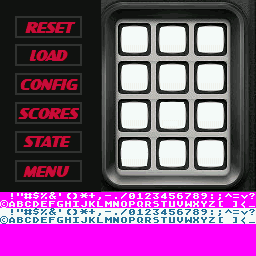
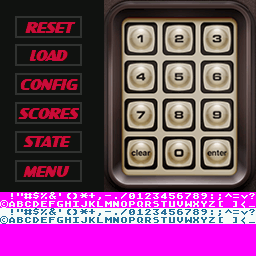
New clean empty overlay sample added. Removed built-in overlays.

diff --git a/arm9/source/config.cpp b/arm9/source/config.cpp
@@ -391,73 +391,57 @@ struct options_t
     UINT8 option_max;
 };
 
+#define KEY_MAP_OPTIONS "KEY-1", "KEY-2", "KEY-3", "KEY-4", "KEY-5", "KEY-6", "KEY-7", "KEY-8", "KEY-9", "KEY-CLR", "KEY-0", "KEY-ENT", "FIRE", "L-ACT", "R-ACT", "RESET", "LOAD", "CONFIG", "SCORES", "QUIT", "STATE", "MENU", "SWITCH", "MANUAL", "DISC UP", "DISC DOWN"
+
 const struct options_t Option_Table[3][20] =
 {
     // Page 1 options
     {
-        {"OVERLAY",     {"GENERIC", "ECS", "MINOTAUR", "ADVENTURE", "ASTROSMASH", "SPACE SPARTANS", "B-17 BOMBER", "ATLANTIS", "BOMB SQUAD", "UTOPIA"},                     &myConfig.overlay,          10},
-        {"A BUTTON",    {"KEY-1", "KEY-2", "KEY-3", "KEY-4", "KEY-5", "KEY-6", "KEY-7", "KEY-8", "KEY-9", "KEY-CLR", "KEY-0", "KEY-ENT", "FIRE", "L-ACT", "R-ACT", 
-                         "RESET", "LOAD", "CONFIG", "SCORES", "QUIT", "STATE", "MENU", "SWITCH", "MANUAL", "DISC UP", "DISC DOWN"},                                         &myConfig.key_A_map,        26},
-        {"B BUTTON",    {"KEY-1", "KEY-2", "KEY-3", "KEY-4", "KEY-5", "KEY-6", "KEY-7", "KEY-8", "KEY-9", "KEY-CLR", "KEY-0", "KEY-ENT", "FIRE", "L-ACT", "R-ACT", 
-                         "RESET", "LOAD", "CONFIG", "SCORES", "QUIT", "STATE", "MENU", "SWITCH", "MANUAL", "DISC UP", "DISC DOWN"},                                         &myConfig.key_B_map,        26},
-        {"X BUTTON",    {"KEY-1", "KEY-2", "KEY-3", "KEY-4", "KEY-5", "KEY-6", "KEY-7", "KEY-8", "KEY-9", "KEY-CLR", "KEY-0", "KEY-ENT", "FIRE", "L-ACT", "R-ACT", 
-                         "RESET", "LOAD", "CONFIG", "SCORES", "QUIT", "STATE", "MENU", "SWITCH", "MANUAL", "DISC UP", "DISC DOWN"},                                         &myConfig.key_X_map,        26},
-        {"Y BUTTON",    {"KEY-1", "KEY-2", "KEY-3", "KEY-4", "KEY-5", "KEY-6", "KEY-7", "KEY-8", "KEY-9", "KEY-CLR", "KEY-0", "KEY-ENT", "FIRE", "L-ACT", "R-ACT",       
-                         "RESET", "LOAD", "CONFIG", "SCORES", "QUIT", "STATE", "MENU", "SWITCH", "MANUAL", "DISC UP", "DISC DOWN"},                                         &myConfig.key_Y_map,        26},
-        {"L BUTTON",    {"KEY-1", "KEY-2", "KEY-3", "KEY-4", "KEY-5", "KEY-6", "KEY-7", "KEY-8", "KEY-9", "KEY-CLR", "KEY-0", "KEY-ENT", "FIRE", "L-ACT", "R-ACT", 
-                         "RESET", "LOAD", "CONFIG", "SCORES", "QUIT", "STATE", "MENU", "SWITCH", "MANUAL", "DISC UP", "DISC DOWN"},                                         &myConfig.key_L_map,        26},
-        {"R BUTTON",    {"KEY-1", "KEY-2", "KEY-3", "KEY-4", "KEY-5", "KEY-6", "KEY-7", "KEY-8", "KEY-9", "KEY-CLR", "KEY-0", "KEY-ENT", "FIRE", "L-ACT", "R-ACT", 
-                         "RESET", "LOAD", "CONFIG", "SCORES", "QUIT", "STATE", "MENU", "SWITCH", "MANUAL", "DISC UP", "DISC DOWN"},                                         &myConfig.key_R_map,        26},
-        {"START BTN",   {"KEY-1", "KEY-2", "KEY-3", "KEY-4", "KEY-5", "KEY-6", "KEY-7", "KEY-8", "KEY-9", "KEY-CLR", "KEY-0", "KEY-ENT", "FIRE", "L-ACT", "R-ACT", 
-                         "RESET", "LOAD", "CONFIG", "SCORES", "QUIT", "STATE", "MENU", "SWITCH", "MANUAL", "DISC UP", "DISC DOWN"},                                         &myConfig.key_START_map,    26},
-        {"SELECT BTN",  {"KEY-1", "KEY-2", "KEY-3", "KEY-4", "KEY-5", "KEY-6", "KEY-7", "KEY-8", "KEY-9", "KEY-CLR", "KEY-0", "KEY-ENT", "FIRE", "L-ACT", "R-ACT", 
-                         "RESET", "LOAD", "CONFIG", "SCORES", "QUIT", "STATE", "MENU", "SWITCH", "MANUAL", "DISC UP", "DISC DOWN"},                                         &myConfig.key_SELECT_map,   26},
-
-        {"A+X BUTTON",  {"KEY-1", "KEY-2", "KEY-3", "KEY-4", "KEY-5", "KEY-6", "KEY-7", "KEY-8", "KEY-9", "KEY-CLR", "KEY-0", "KEY-ENT", "FIRE", "L-ACT", "R-ACT", 
-                         "RESET", "LOAD", "CONFIG", "SCORES", "QUIT", "STATE", "MENU", "SWITCH", "MANUAL", "DISC UP", "DISC DOWN"},                                         &myConfig.key_AX_map,       26},
-
-        {"X+Y BUTTON",  {"KEY-1", "KEY-2", "KEY-3", "KEY-4", "KEY-5", "KEY-6", "KEY-7", "KEY-8", "KEY-9", "KEY-CLR", "KEY-0", "KEY-ENT", "FIRE", "L-ACT", "R-ACT", 
-                         "RESET", "LOAD", "CONFIG", "SCORES", "QUIT", "STATE", "MENU", "SWITCH", "MANUAL", "DISC UP", "DISC DOWN"},                                         &myConfig.key_XY_map,       26},
-
-        {"Y+B BUTTON",  {"KEY-1", "KEY-2", "KEY-3", "KEY-4", "KEY-5", "KEY-6", "KEY-7", "KEY-8", "KEY-9", "KEY-CLR", "KEY-0", "KEY-ENT", "FIRE", "L-ACT", "R-ACT", 
-                         "RESET", "LOAD", "CONFIG", "SCORES", "QUIT", "STATE", "MENU", "SWITCH", "MANUAL", "DISC UP", "DISC DOWN"},                                         &myConfig.key_YB_map,       26},
-
-        {"B+A BUTTON",  {"KEY-1", "KEY-2", "KEY-3", "KEY-4", "KEY-5", "KEY-6", "KEY-7", "KEY-8", "KEY-9", "KEY-CLR", "KEY-0", "KEY-ENT", "FIRE", "L-ACT", "R-ACT", 
-                         "RESET", "LOAD", "CONFIG", "SCORES", "QUIT", "STATE", "MENU", "SWITCH", "MANUAL", "DISC UP", "DISC DOWN"},                                         &myConfig.key_BA_map,       26},
-
-        {"CONTROLLER",  {"LEFT/PLAYER1", "RIGHT/PLAYER2", "DUAL-ACTION A", "DUAL-ACTION B"},                                                                                &myConfig.controller_type,  4},
-        {"D-PAD",       {"NORMAL", "SWAP LEFT/RGT", "SWAP UP/DOWN", "DIAGONALS", "STRICT 4-WAY"},                                                                           &myConfig.dpad_config,      5},
-        {"FRAMESKIP",   {"OFF", "ON (ODD)", "ON (EVEN)", "AGRESSIVE"},                                                                                                      &myConfig.frame_skip_opt,   4},
-        {"SOUND DIV",   {"12 (BEST)", "14 (EXELLENT)", "16 (GOOD)", "20 (AVERAGE)", "24 (FAIR)", "DISABLED"},                                                               &myConfig.sound_clock_div,  6},
-        {"TGT SPEED",   {"60 FPS (100%)", "66 FPS (110%)", "72 FPS (120%)", "78 FPS (130%)", "84 FPS (140%)", "90 FPS (150%)", "54 FPS (90%)", "MAX SPEED"},                &myConfig.target_fps,       8},
-        {"PALETTE",     {"ORIGINAL", "MUTED", "BRIGHT", "PAL", "CUSTOM"},                                                                                                   &myConfig.palette,          5},
-        {NULL,          {"",            ""},                                NULL,                   1},
-    },
-    // Page 2 options
-    {
-        {"BACKTAB",     {"NOT LATCHED", "LATCHED"},                                                                                                                         &myConfig.bLatched,         2},
-        {"CPU FUDGE",   {"NONE", "LOW", "MEDIUM", "HIGH", "MAX"},                                                                                                           &myConfig.fudgeTiming,      5},
-        {NULL,          {"",            ""},                                NULL,                   1},
+        {"OVERLAY",     {"GENERIC", "ECS"},                                                                                                                         &myConfig.overlay,          2},
+        {"A BUTTON",    {KEY_MAP_OPTIONS},                                                                                                                          &myConfig.key_A_map,        26},
+        {"B BUTTON",    {KEY_MAP_OPTIONS},                                                                                                                          &myConfig.key_B_map,        26},
+        {"X BUTTON",    {KEY_MAP_OPTIONS},                                                                                                                          &myConfig.key_X_map,        26},
+        {"Y BUTTON",    {KEY_MAP_OPTIONS},                                                                                                                          &myConfig.key_Y_map,        26},
+        {"L BUTTON",    {KEY_MAP_OPTIONS},                                                                                                                          &myConfig.key_L_map,        26},
+        {"R BUTTON",    {KEY_MAP_OPTIONS},                                                                                                                          &myConfig.key_R_map,        26},
+        {"START BTN",   {KEY_MAP_OPTIONS},                                                                                                                          &myConfig.key_START_map,    26},
+        {"SELECT BTN",  {KEY_MAP_OPTIONS},                                                                                                                          &myConfig.key_SELECT_map,   26},
+        {"A+X BUTTON",  {KEY_MAP_OPTIONS},                                                                                                                          &myConfig.key_AX_map,       26},
+        {"X+Y BUTTON",  {KEY_MAP_OPTIONS},                                                                                                                          &myConfig.key_XY_map,       26},
+        {"Y+B BUTTON",  {KEY_MAP_OPTIONS},                                                                                                                          &myConfig.key_YB_map,       26},
+        {"B+A BUTTON",  {KEY_MAP_OPTIONS},                                                                                                                          &myConfig.key_BA_map,       26},
+        {"CONTROLLER",  {"LEFT/PLAYER1", "RIGHT/PLAYER2", "DUAL-ACTION A", "DUAL-ACTION B"},                                                                        &myConfig.controller_type,  4},
+        {"D-PAD",       {"NORMAL", "SWAP LEFT/RGT", "SWAP UP/DOWN", "DIAGONALS", "STRICT 4-WAY"},                                                                   &myConfig.dpad_config,      5},
+        {"FRAMESKIP",   {"OFF", "ON (ODD)", "ON (EVEN)", "AGRESSIVE"},                                                                                              &myConfig.frame_skip_opt,   4},
+        {"SOUND DIV",   {"12 (BEST)", "14 (EXELLENT)", "16 (GOOD)", "20 (AVERAGE)", "24 (FAIR)", "DISABLED"},                                                       &myConfig.sound_clock_div,  6},
+        {"TGT SPEED",   {"60 FPS (100%)", "66 FPS (110%)", "72 FPS (120%)", "78 FPS (130%)", "84 FPS (140%)", "90 FPS (150%)", "54 FPS (90%)", "MAX SPEED"},        &myConfig.target_fps,       8},
+        {"PALETTE",     {"ORIGINAL", "MUTED", "BRIGHT", "PAL", "CUSTOM"},                                                                                           &myConfig.palette,          5},
+        {NULL,          {"",            ""},                                                                                                                        NULL,                       1},
     },
     
-    {   // Global Options
-        {"FPS",         {"OFF", "ON", "ON WITH DEBUG"},                                                                                                                     &myGlobalConfig.show_fps,               3},
-        {"SAVE STATE",  {"KEEP ON LOAD", "ERASE ON LOAD"},                                                                                                                  &myGlobalConfig.erase_saves,            2},
-        {"BIOS DIR",    {"SAME AS ROMS", "/ROMS/BIOS", "/ROMS/INTV/BIOS", "/DATA/BIOS"},                                                                                    &myGlobalConfig.bios_dir,               4},
-        {"SAVE DIR",    {"SAME AS ROMS", "/ROMS/SAV",  "/ROMS/INTV/SAV",  "/DATA/SAV"},                                                                                     &myGlobalConfig.save_dir,               4},
-        {"OVL DIR",     {"SAME AS ROMS", "/ROMS/OVL",  "/ROMS/INTV/OVL",  "/DATA/OVL"},                                                                                     &myGlobalConfig.ovl_dir,                4},
-        {"ROM DIR",     {"SAME AS EMU",  "/ROMS",      "/ROMS/INTV"},                                                                                                       &myGlobalConfig.rom_dir,                3},
-        {"MAN DIR",     {"SAME AS ROMS", "/ROMS/MAN",  "/ROMS/INTV/MAN",  "/DATA/MAN"},                                                                                     &myGlobalConfig.man_dir,                4},    
-        {"START DEF",   {"KEY-1", "KEY-2", "KEY-3", "KEY-4", "KEY-5", "KEY-6", "KEY-7", "KEY-8", "KEY-9", "KEY-CLR", "KEY-0", "KEY-ENT", "FIRE", "L-ACT", "R-ACT", 
-                         "RESET", "LOAD", "CONFIG", "SCORES", "QUIT", "STATE", "MENU"},                                                                                     &myGlobalConfig.key_START_map_default,  22},
-        {"SELECT DEF",  {"KEY-1", "KEY-2", "KEY-3", "KEY-4", "KEY-5", "KEY-6", "KEY-7", "KEY-8", "KEY-9", "KEY-CLR", "KEY-0", "KEY-ENT", "FIRE", "L-ACT", "R-ACT", 
-                         "RESET", "LOAD", "CONFIG", "SCORES", "QUIT", "STATE", "MENU"},                                                                                     &myGlobalConfig.key_SELECT_map_default, 22},
-        {"SOUND DEF",   {"12 (BEST)", "14 (EXELLENT)", "16 (GOOD)", "20 (FAIR)", "24 (POOR)", "DISABLED"},                                                                  &myGlobalConfig.def_sound_quality,      6},
-        {"PALETTE DEF", {"ORIGINAL", "MUTED", "BRIGHT", "PAL", "CUSTOM"},                                                                                                   &myGlobalConfig.def_palette,            5},
-        {"BRIGTNESS",   {"MAX", "DIM", "DIMMER", "DIMEST"},                                                                                                                 &myGlobalConfig.brightness,             4},
-        {"MENU COLOR",  {"WHITE", "GREEN"},                                                                                                                                 &myGlobalConfig.menu_color,             2},
-
-        {NULL,          {"",            ""},                                NULL,                   1},
+    // Page 2 options
+    {
+        {"BACKTAB",     {"NOT LATCHED", "LATCHED"},                                                                                                                 &myConfig.bLatched,         2},
+        {"CPU FUDGE",   {"NONE", "LOW", "MEDIUM", "HIGH", "MAX"},                                                                                                   &myConfig.fudgeTiming,      5},
+        {NULL,          {"",            ""},                                                                                                                        NULL,                       1},
+    },
+    
+    // Global Options
+    {   
+        {"FPS",         {"OFF", "ON", "ON WITH DEBUG"},                                                                                                 &myGlobalConfig.show_fps,               3},
+        {"SAVE STATE",  {"KEEP ON LOAD", "ERASE ON LOAD"},                                                                                              &myGlobalConfig.erase_saves,            2},
+        {"BIOS DIR",    {"SAME AS ROMS", "/ROMS/BIOS", "/ROMS/INTV/BIOS", "/DATA/BIOS"},                                                                &myGlobalConfig.bios_dir,               4},
+        {"SAVE DIR",    {"SAME AS ROMS", "/ROMS/SAV",  "/ROMS/INTV/SAV",  "/DATA/SAV"},                                                                 &myGlobalConfig.save_dir,               4},
+        {"OVL DIR",     {"SAME AS ROMS", "/ROMS/OVL",  "/ROMS/INTV/OVL",  "/DATA/OVL"},                                                                 &myGlobalConfig.ovl_dir,                4},
+        {"ROM DIR",     {"SAME AS EMU",  "/ROMS",      "/ROMS/INTV"},                                                                                   &myGlobalConfig.rom_dir,                3},
+        {"MAN DIR",     {"SAME AS ROMS", "/ROMS/MAN",  "/ROMS/INTV/MAN",  "/DATA/MAN"},                                                                 &myGlobalConfig.man_dir,                4},    
+        {"START DEF",   {KEY_MAP_OPTIONS},                                                                                                              &myGlobalConfig.key_START_map_default,  26},
+        {"SELECT DEF",  {KEY_MAP_OPTIONS},                                                                                                              &myGlobalConfig.key_SELECT_map_default, 26},
+        {"SOUND DEF",   {"12 (BEST)", "14 (EXELLENT)", "16 (GOOD)", "20 (FAIR)", "24 (POOR)", "DISABLED"},                                              &myGlobalConfig.def_sound_quality,      6},
+        {"PALETTE DEF", {"ORIGINAL", "MUTED", "BRIGHT", "PAL", "CUSTOM"},                                                                               &myGlobalConfig.def_palette,            5},
+        {"BRIGTNESS",   {"MAX", "DIM", "DIMMER", "DIMEST"},                                                                                             &myGlobalConfig.brightness,             4},
+        {"MENU COLOR",  {"WHITE", "GREEN"},                                                                                                             &myGlobalConfig.menu_color,             2},
+        {NULL,          {"",            ""},                                                                                                            NULL,                                   1},
     }
 };
 

diff --git a/arm9/source/overlay.cpp b/arm9/source/overlay.cpp
@@ -22,14 +22,6 @@
 #include "overlay.h"
 #include "config.h"
 #include "bgBottom.h"
-#include "bgBottom-treasure.h"
-#include "bgBottom-cloudy.h"
-#include "bgBottom-astro.h"
-#include "bgBottom-spartans.h"
-#include "bgBottom-b17.h"
-#include "bgBottom-atlantis.h"
-#include "bgBottom-bombsquad.h"
-#include "bgBottom-utopia.h"
 #include "bgBottom-ECS.h"
 #include "bgTop.h"
 #include "Emulator.h"
@@ -318,54 +310,6 @@ void show_overlay(void)
       dmaCopy((void *) bgBottom_ECSPal,(u16*) BG_PALETTE_SUB,256*2);
       // ECS Overlay...  
       memcpy(&myOverlay, &ecsOverlay, sizeof(myOverlay));
-    }
-    else if (myConfig.overlay == 2) // Treasure of Tarmin
-    {
-      decompress(bgBottom_treasureTiles, bgGetGfxPtr(bg0b), LZ77Vram);
-      decompress(bgBottom_treasureMap, (void*) bgGetMapPtr(bg0b), LZ77Vram);
-      dmaCopy((void *) bgBottom_treasurePal,(u16*) BG_PALETTE_SUB,256*2);
-    }
-    else if (myConfig.overlay == 3) // Cloudy Mountain
-    {
-      decompress(bgBottom_cloudyTiles, bgGetGfxPtr(bg0b), LZ77Vram);
-      decompress(bgBottom_cloudyMap, (void*) bgGetMapPtr(bg0b), LZ77Vram);
-      dmaCopy((void *) bgBottom_cloudyPal,(u16*) BG_PALETTE_SUB,256*2);
-    }
-    else if (myConfig.overlay == 4) // Astrosmash
-    {
-      decompress(bgBottom_astroTiles, bgGetGfxPtr(bg0b), LZ77Vram);
-      decompress(bgBottom_astroMap, (void*) bgGetMapPtr(bg0b), LZ77Vram);
-      dmaCopy((void *) bgBottom_astroPal,(u16*) BG_PALETTE_SUB,256*2);
-    }
-    else if (myConfig.overlay == 5) // Space Spartans
-    {
-      decompress(bgBottom_spartansTiles, bgGetGfxPtr(bg0b), LZ77Vram);
-      decompress(bgBottom_spartansMap, (void*) bgGetMapPtr(bg0b), LZ77Vram);
-      dmaCopy((void *) bgBottom_spartansPal,(u16*) BG_PALETTE_SUB,256*2);
-    }
-    else if (myConfig.overlay == 6) // B17 Bomber
-    {
-      decompress(bgBottom_b17Tiles, bgGetGfxPtr(bg0b), LZ77Vram);
-      decompress(bgBottom_b17Map, (void*) bgGetMapPtr(bg0b), LZ77Vram);
-      dmaCopy((void *) bgBottom_b17Pal,(u16*) BG_PALETTE_SUB,256*2);
-    }
-    else if (myConfig.overlay == 7) // Atlantis
-    {
-      decompress(bgBottom_atlantisTiles, bgGetGfxPtr(bg0b), LZ77Vram);
-      decompress(bgBottom_atlantisMap, (void*) bgGetMapPtr(bg0b), LZ77Vram);
-      dmaCopy((void *) bgBottom_atlantisPal,(u16*) BG_PALETTE_SUB,256*2);
-    }
-    else if (myConfig.overlay == 8) // Bomb Squad
-    {
-      decompress(bgBottom_bombsquadTiles, bgGetGfxPtr(bg0b), LZ77Vram);
-      decompress(bgBottom_bombsquadMap, (void*) bgGetMapPtr(bg0b), LZ77Vram);
-      dmaCopy((void *) bgBottom_bombsquadPal,(u16*) BG_PALETTE_SUB,256*2);
-    }
-    else if (myConfig.overlay == 9) // Utopia
-    {
-      decompress(bgBottom_utopiaTiles, bgGetGfxPtr(bg0b), LZ77Vram);
-      decompress(bgBottom_utopiaMap, (void*) bgGetMapPtr(bg0b), LZ77Vram);
-      dmaCopy((void *) bgBottom_utopiaPal,(u16*) BG_PALETTE_SUB,256*2);
     }
     else    // Default Overlay... which might be custom!!
     {
